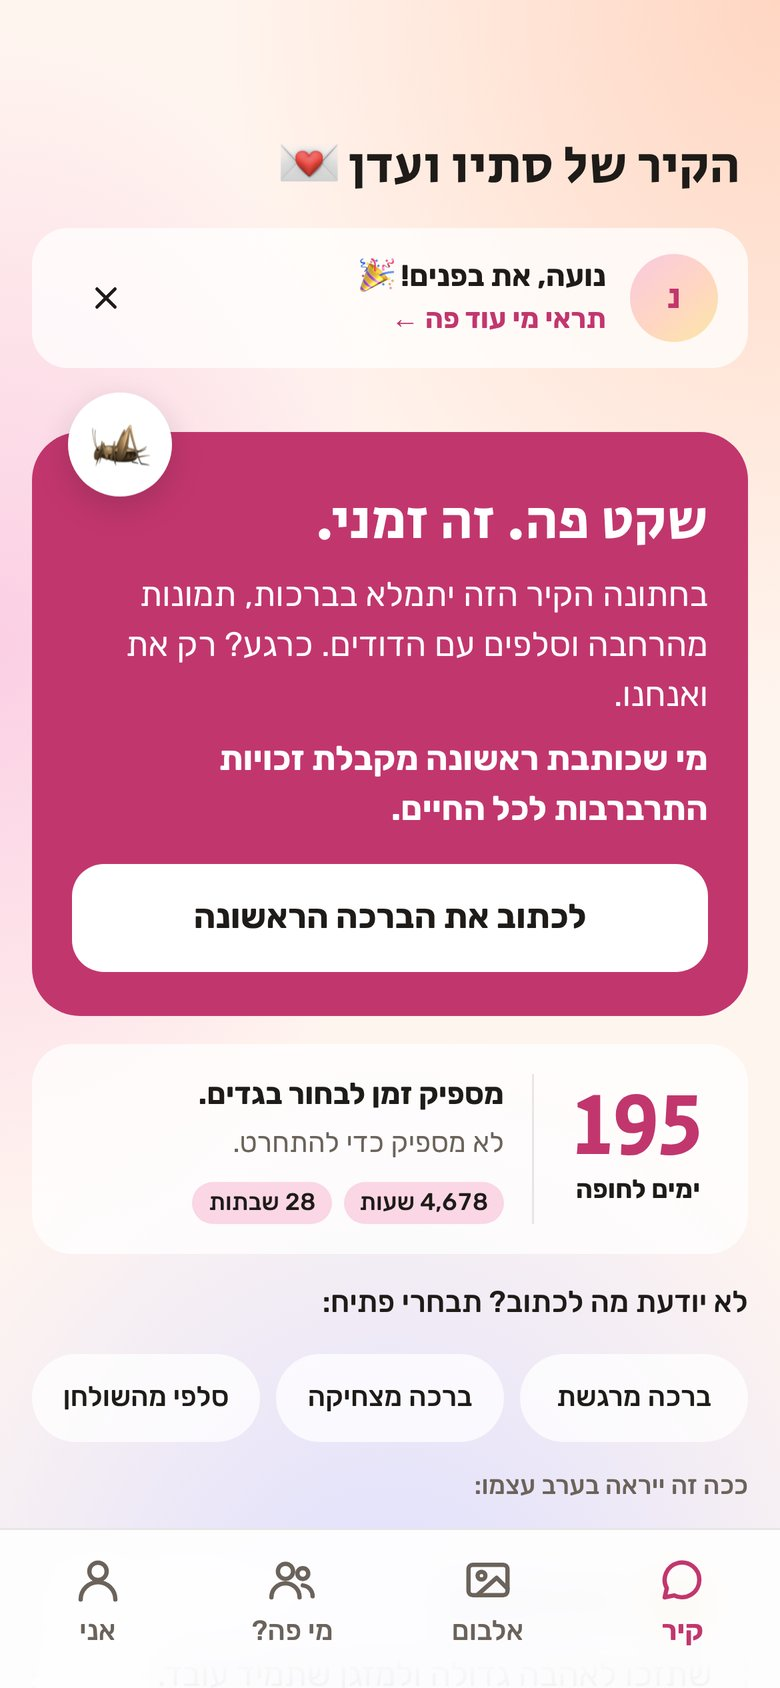
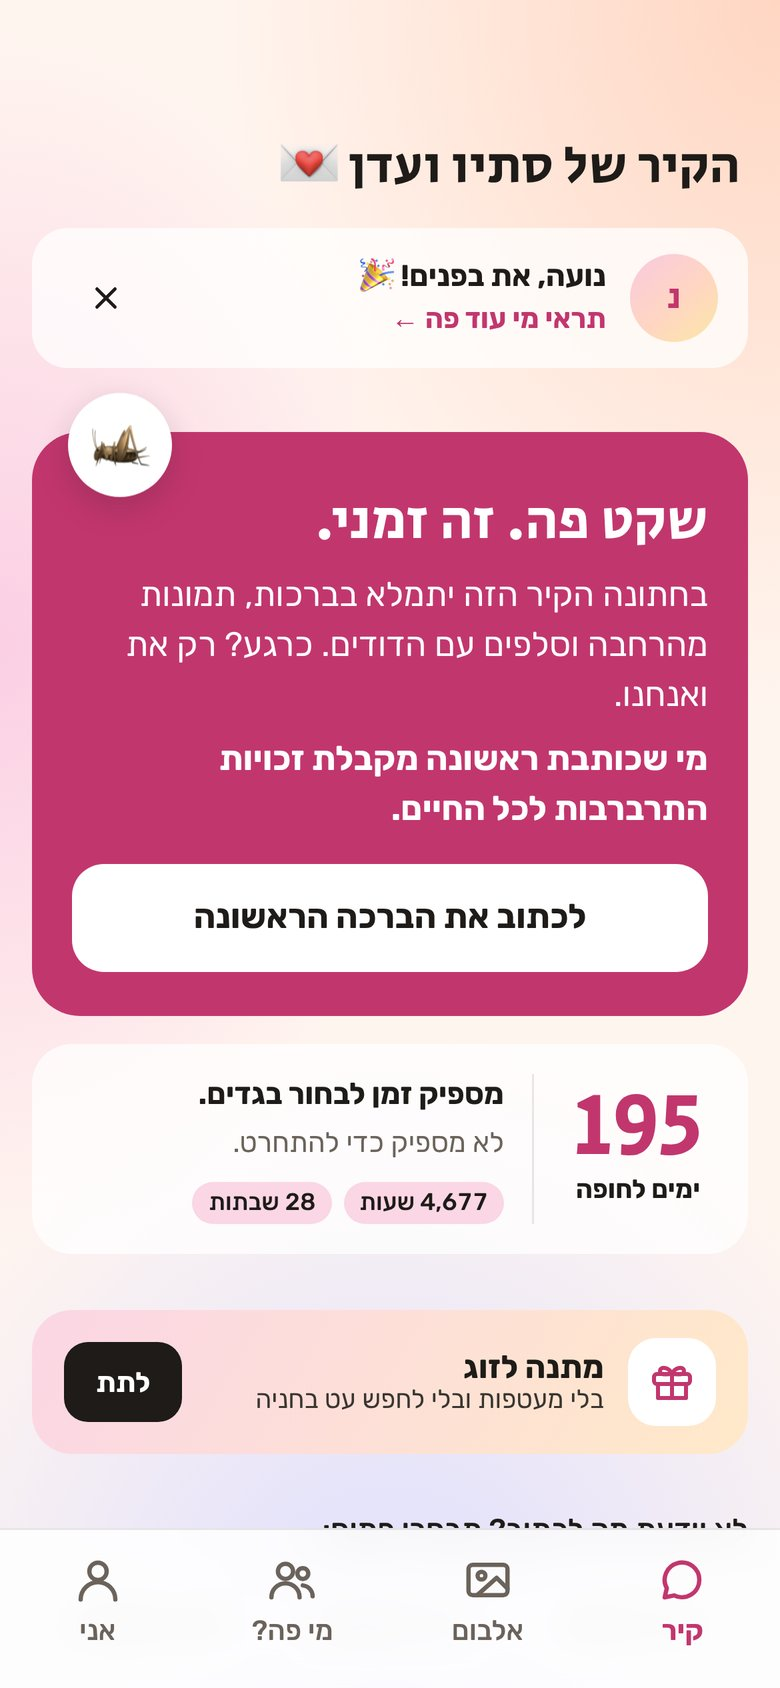
Getting: gift feature
Claude-Session: https://claude.ai/code/session_01CtJMhMmNPj9aGCH1E7C3GP

Changed region(s): [[0.0308, 0.7701, 0.9846, 0.8934]]

diff --git a/getting.html b/getting.html
@@ -265,7 +265,13 @@ footer{padding:40px var(--pad) 56px;max-width:1240px;margin:0 auto;display:flex;
   </div>
 
   <div class="feat">
-   <div class="txt"><span class="n">04 — Guests & shuttles</span><h3>Guest & shuttle management</h3><p>Every guest sees and edits their RSVP, +1 and shuttle seat at any time, so the couple always has an up-to-date list. Those who can't make it still leave a blessing, with no guilt.</p></div>
+   <div class="txt"><span class="n">04 — A gift</span><h3>A gift, without the envelope</h3><p>Guests can send money to the couple straight from the app, with a note. They pick an amount, add a few words and choose Bit, PayBox or a card. Only the couple sees how much.</p>
+    <ul><li>Suggested amounts, or any amount</li><li>A note that arrives with the gift</li><li>The amount stays private</li></ul></div>
+   <div class="pair"><div class="phone"><img src="media/getting/15-gift.jpg" alt="Choosing a gift"></div><div class="phone"><img src="media/getting/16-gift-sent.jpg" alt="Gift sent"></div></div>
+  </div>
+
+  <div class="feat">
+   <div class="txt"><span class="n">05 — Guests & shuttles</span><h3>Guest & shuttle management</h3><p>Every guest sees and edits their RSVP, +1 and shuttle seat at any time, so the couple always has an up-to-date list. Those who can't make it still leave a blessing, with no guilt.</p></div>
    <div class="pair"><div class="phone"><img src="media/getting/10-me.jpg" alt="My profile"></div><div class="phone"><img src="media/getting/11-bye.jpg" alt="Can't make it"></div></div>
   </div>
  </section>
